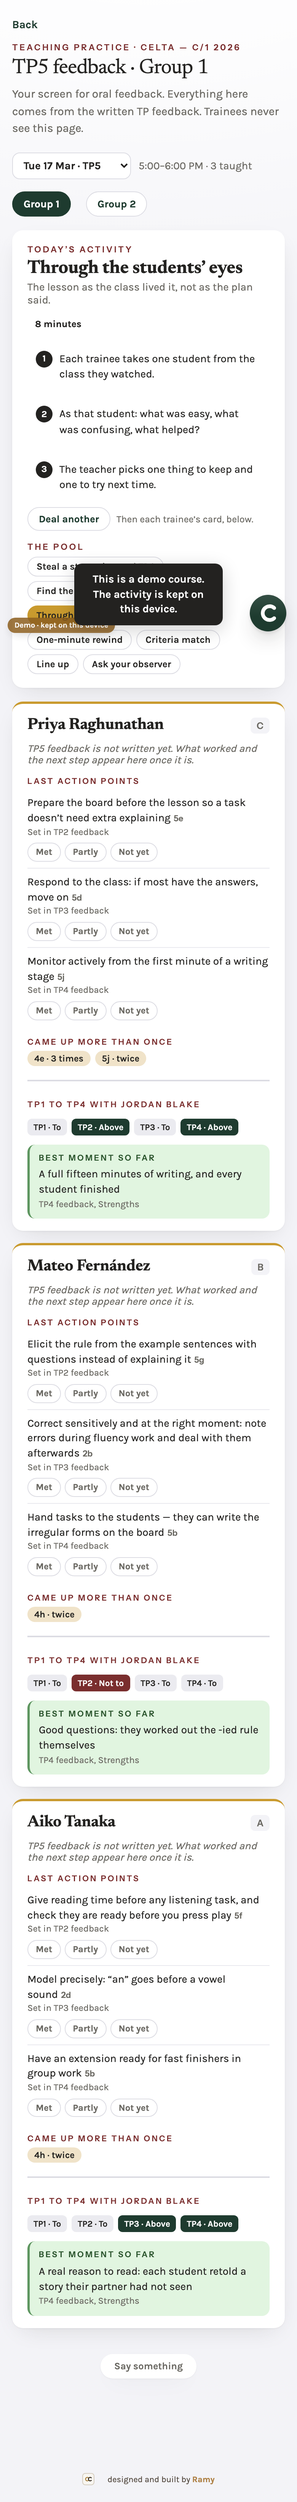
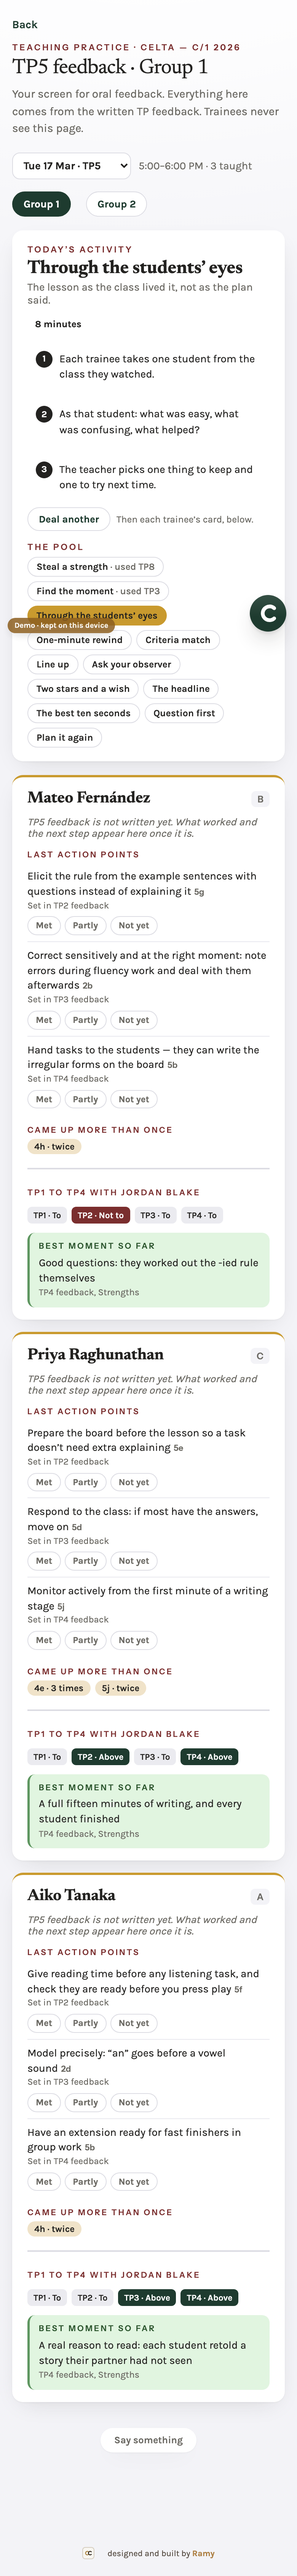
TP feedback: twelve activities (Ramy, 30 Oct 2026: "add five more"): Two stars and a wish, The headline, The best ten seconds, Question first, Plan it again.

diff --git a/40_tp_feedback.html b/40_tp_feedback.html
@@ -245,7 +245,18 @@ else (async function(){
     ['line', 'Line up', 8, 'Everyone moves, everyone has a view.',
       ['The tutor reads a statement about today’s lessons, such as “the instructions were clear”.', 'Trainees stand along a line from agree to disagree.', 'Two people at different ends say why, starting with something that worked.']],
     ['ask', 'Ask your observer', 10, 'The teacher leads; the tutor comes in last.',
-      ['The teacher asks each observer one question about their lesson.', 'The observer answers from their sheet: one thing that worked, one to try.', 'The tutor adds what nobody has said yet.']]
+      ['The teacher asks each observer one question about their lesson.', 'The observer answers from their sheet: one thing that worked, one to try.', 'The tutor adds what nobody has said yet.']],
+    /* five more (Ramy, 30 Oct 2026: "add five more"): twelve, so each comes round about once per group */
+    ['stars', 'Two stars and a wish', 8, 'Two things that worked for every one about something to try: the balance is built in.',
+      ['Each observer gives the teacher two stars: two things that worked, and when.', 'Then one wish: one thing they’d like to see next time.', 'The teacher picks the wish they’ll act on in their next TP.']],
+    ['headline', 'The headline', 8, 'A light way in: one line that sums up a lesson.',
+      ['Everyone writes a short newspaper headline for a colleague’s lesson.', 'The headlines are read out; the teacher picks the truest.', 'The group says what in the lesson earned that headline, and what the next headline could be.']],
+    ['seconds', 'The best ten seconds', 8, 'Starts small and specific, so the praise is real.',
+      ['Each person names the best ten seconds of a colleague’s lesson.', 'The teacher says what they did in those ten seconds and why.', 'The group finds one place in the lesson where the same move would have helped.']],
+    ['question', 'Question first', 10, 'The teacher decides what the feedback is about.',
+      ['Before anyone speaks, the teacher asks the group one question they want answered about their lesson.', 'The observers answer it from what they saw, starting with what worked.', 'The teacher sums up in one sentence: what they’ll keep and what they’ll change.']],
+    ['replan', 'Plan it again', 12, 'From talking about a lesson to building one, together.',
+      ['The teacher shows one stage of their plan.', 'In pairs, the others plan that stage again in two minutes, keeping what worked.', 'The teacher picks one idea to take into their next lesson.']]
   ];
   const actsOf = () => { const a = ((cs.fbActs || {})[group]) || []; return Array.isArray(a) ? a : []; };
   function dealFor(dateISO, skip){
